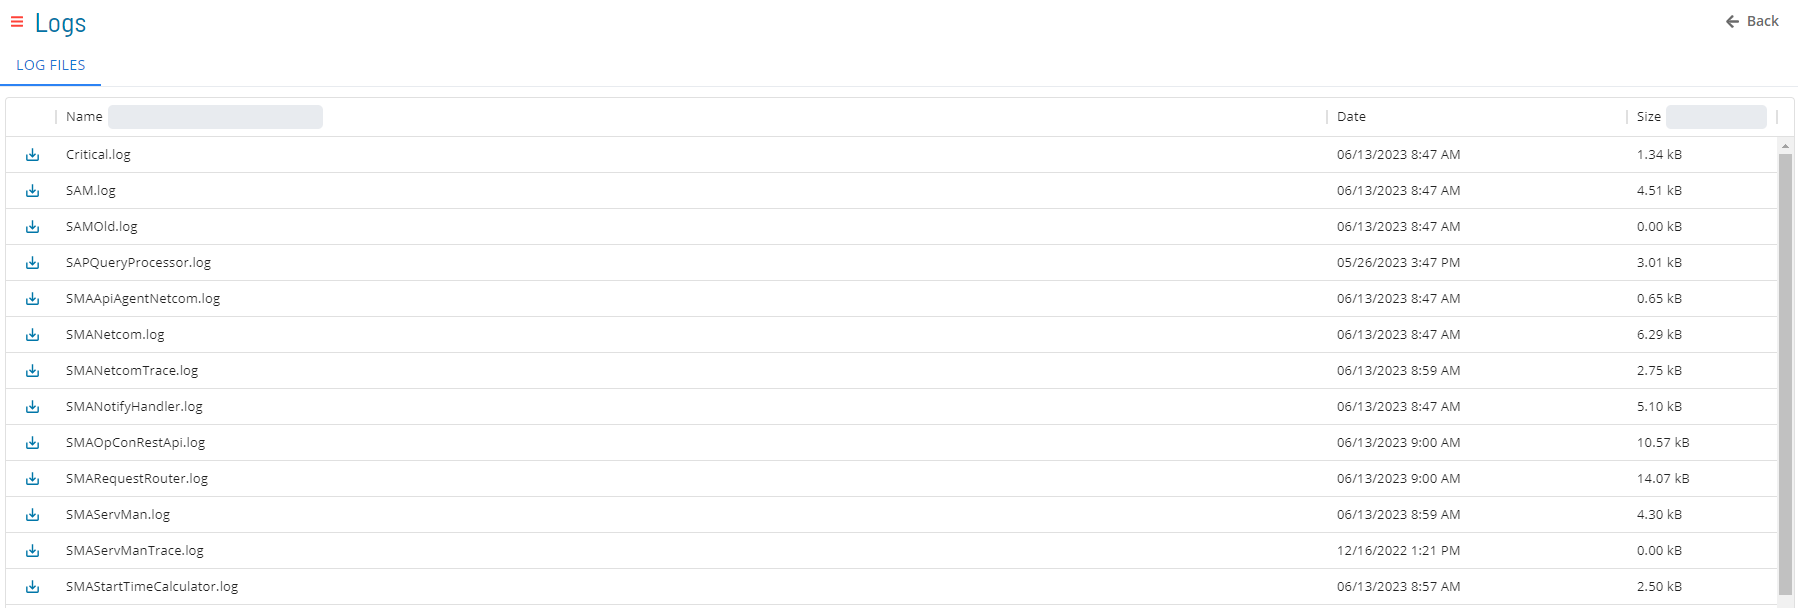
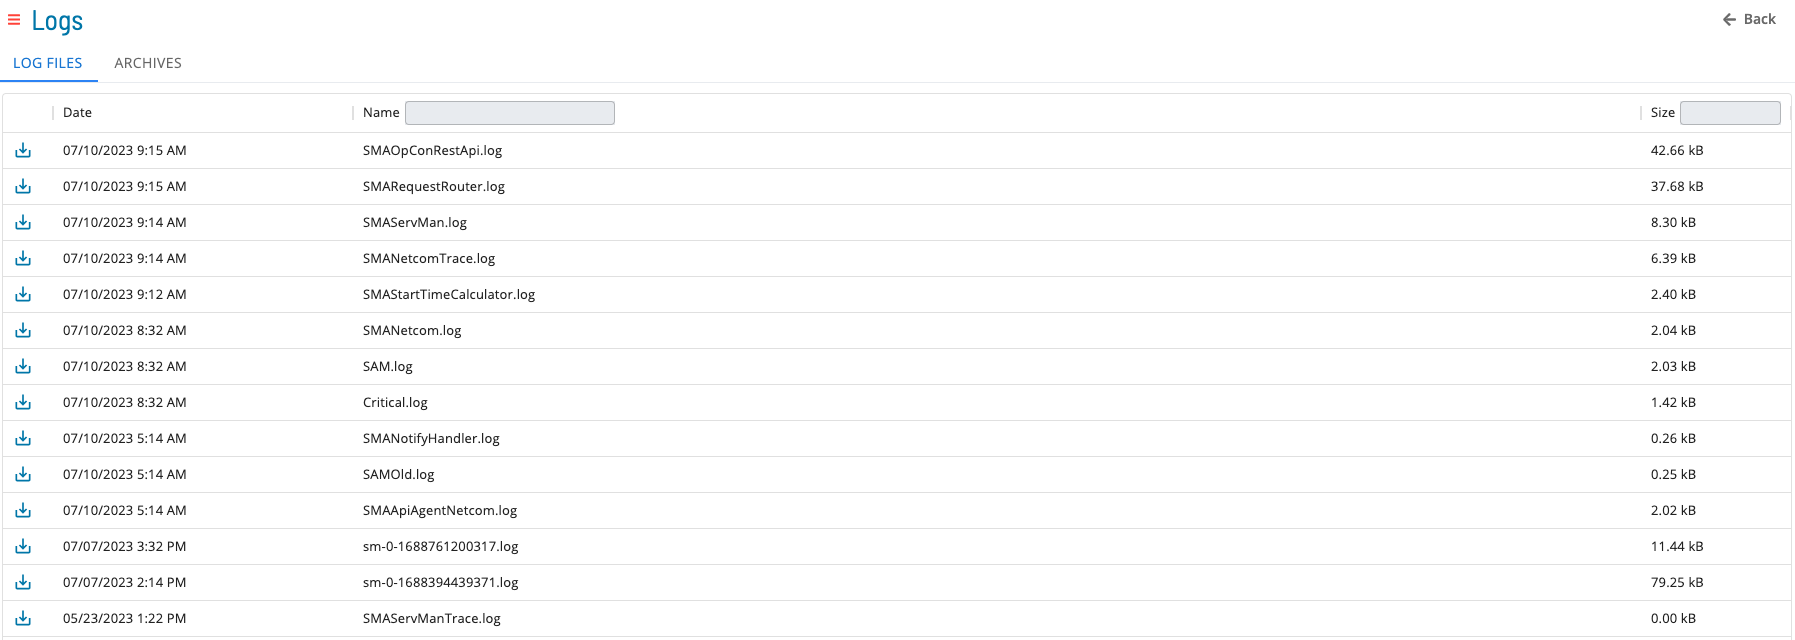
Added Log Archive Tab Docs (#203)
* Added notification settings tab on server options

* Update Managing-Notification-Settings.md

* Updated Logs Docs

* Add Library > CloudEvents Triggers Documentation (#197)

* Added release notes for OpCon 22.5.0 (#198)

* Added release notes for OpCon 22.0.5 (#200)

* Added release notes for OpCon 21.0.17 (#201)

---------

diff --git a/sidebars.js b/sidebars.js
@@ -552,6 +552,7 @@ module.exports = {
                   collapsed: true,
                   items: [
                     "Files/UI/Solution-Manager/Library/Logs/List-Log-Files",
+                    "Files/UI/Solution-Manager/Library/Logs/List-Archive-Files",
                     "Files/UI/Solution-Manager/Library/Logs/Log-File-Details",
                   ],
                 },

diff --git a/docs/Files/UI/Solution-Manager/Library/Logs/List-Archive-Files.md b/docs/Files/UI/Solution-Manager/Library/Logs/List-Archive-Files.md
@@ -1,0 +1,17 @@
+# List Archive Files
+
+The **Logs** module allows you to view list of archived log files.
+
+![A screen showing list of log files](../../../../../Resources/Images/SM/Library/Logs/Logs-List-Archive-Files.png "List of Archived Log Files")
+
+### Filtering & Sorting
+
+You can filter and sort log files by using the column headers in the list.
+
+### Log File Details
+
+Click a row to open the Log File Details Page and see more detailed information about the selected log file.
+
+### Download File
+
+Click the download ![Download button](../../../../../Resources/Images/SM/Library/Logs/Download-Button.png "Download") button to download a copy of the log file.
